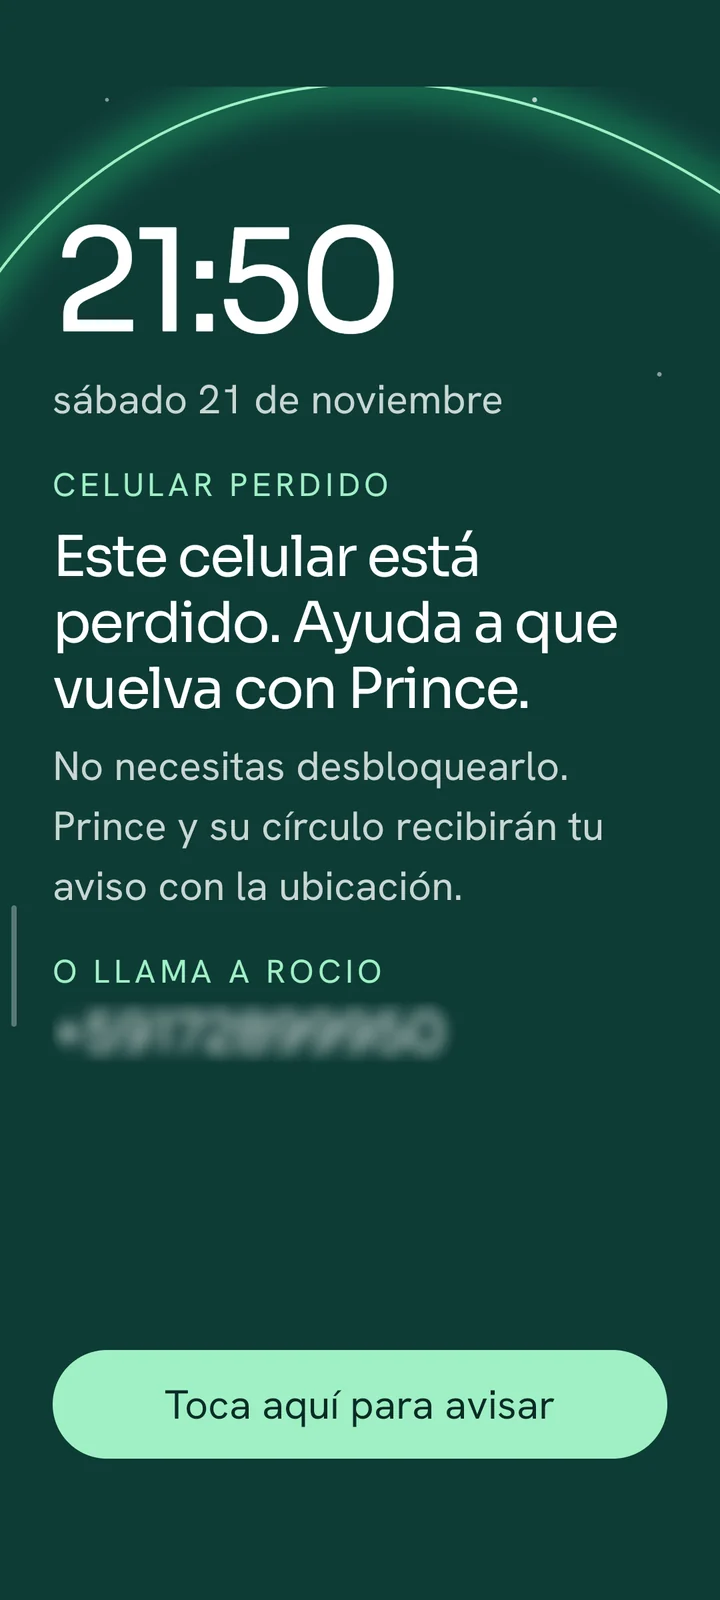
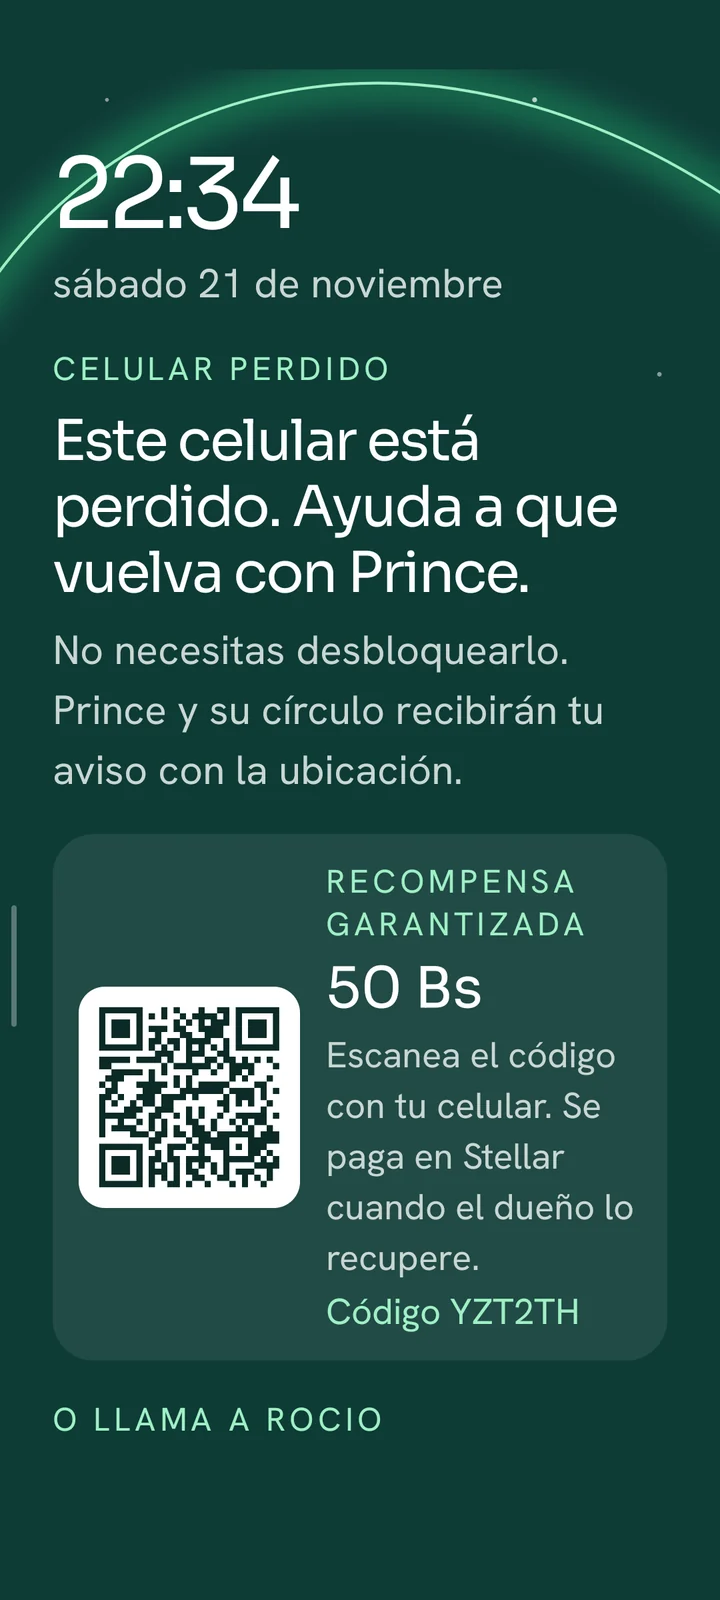
La señal: capturas reales de la recompensa de punta a punta
Pantalla de perdido con la recompensa y el QR, el dueño confirmando la devolución
y la página de reclamo ya pagada (escrow de Trustless Work en testnet).

Changed region(s): [[0.0611, 0.0938, 0.9472, 0.9375], [0.3361, 0.0312, 0.7333, 0.0625], [0.8556, 0.75, 0.8861, 0.7812]]

diff --git a/recompensas/web/src/landing/senal/capturas/LEEME.md b/recompensas/web/src/landing/senal/capturas/LEEME.md
@@ -9,12 +9,12 @@ una pantalla provisional con su nombre.
 | --- | --- | --- |
 | `inicio` | El tuyo | 1 · Tu celular entra a la red |
 | `guardian` | El tuyo | 2 · Si se aleja, lo sabes (vincular el guardián) |
-| `perdido` | El tuyo | 3 a 5 · Pantalla de celular perdido (lo que ve quien lo encuentra) |
+| `perdido` | El tuyo | 3 a 5 · Pantalla de celular perdido con la recompensa, el QR y el código |
 | `reportar` | Tu círculo | 1 a 4 · Reportar el celular de un miembro como perdido |
 | `nodo` | Un celular cercano | 1 a 6 · Buscar de cerca: lo detecta por Bluetooth |
 | `seguimiento` | Tu círculo | 5 · Mapa con la última ubicación |
-| `recompensa` | Tu círculo | 6 · Confirmar la devolución y pagar (falta) |
-| `devuelto` | El tuyo | 6 · La recompensa en la pantalla del dueño (falta) |
+| `recompensa` | Tercer celular | 6 · Página de reclamo de quien lo devolvió, ya pagada |
+| `devuelto` | El tuyo | 6 · El dueño confirma la devolución y paga |
 
 Si falta una captura a mitad del recorrido, ese celular sigue mostrando la anterior.
 
